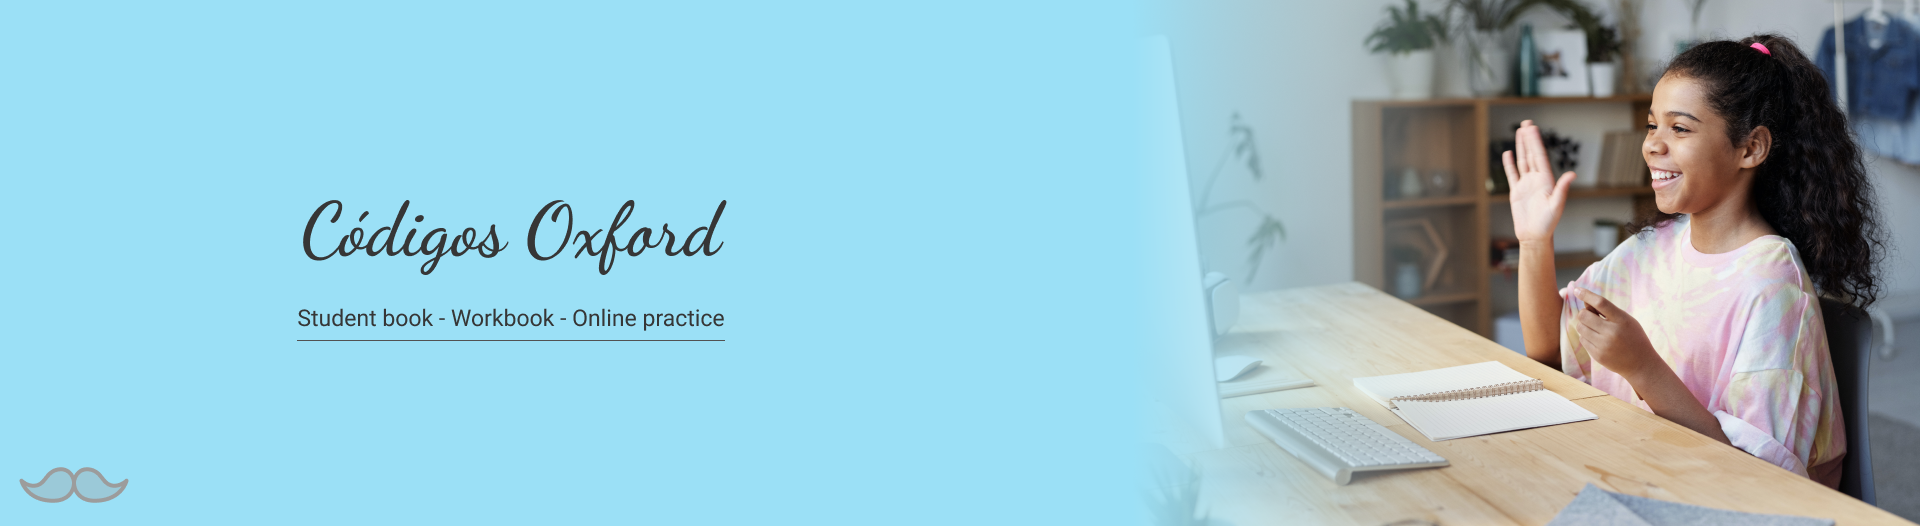
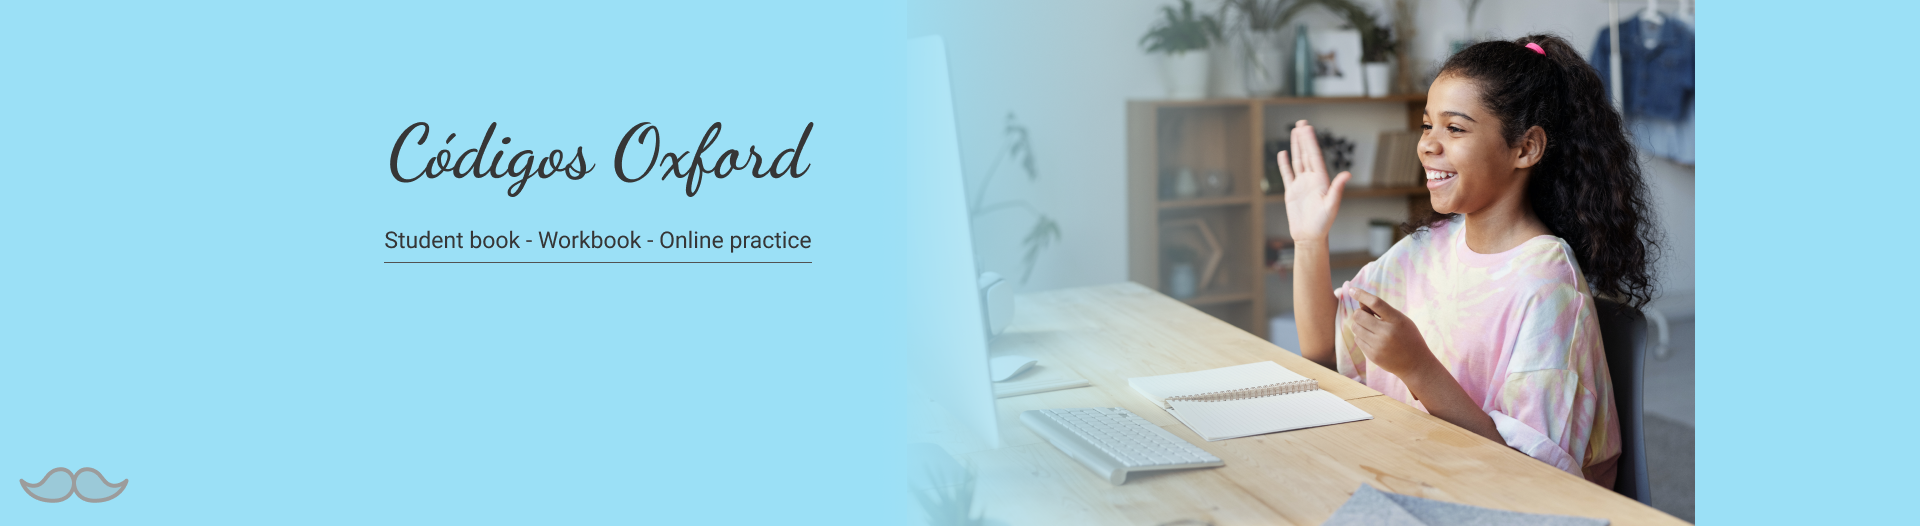
issues fixed

diff --git a/resources/views/home.blade.php b/resources/views/home.blade.php
@@ -8,7 +8,14 @@
     <link rel="stylesheet" href="https://cdn.jsdelivr.net/npm/@splidejs/splide@4.1.4/dist/css/splide.min.css">
     <style>
         .splide__pagination {
+            visibility: hidden !important;
             bottom: -20px !important;
+        }
+
+        @media (min-width: 640px) {
+            .splide__pagination {
+                visibility: visible !important;
+            }
         }
 
         .splide__pagination__page {
@@ -37,7 +44,7 @@
 @section('content')
     <!-- Carousel imagenes -->
 
-    <div id="carouselExampleCaptions" class="relative md:h-80 h-72" data-te-carousel-init data-te-carousel-slide>
+    <div id="carouselExampleCaptions" class="relative md:h-80 sm:h-72 h-44" data-te-carousel-init data-te-carousel-slide>
         <!--Carousel indicators-->
         <div class="absolute bottom-0 left-0 right-0 z-[2] mx-[15%] mb-4 flex list-none justify-center p-0"
             data-te-carousel-indicators>
@@ -60,8 +67,10 @@
                 <img src="{{ asset('images/carousel_images/image1.jpg') }}" class="w-full h-full object-cover"
                     alt="..." />
                 <div class="absolute inset-x-[15%] bottom-10 py-5 text-center text-white block">
-                    <h1 class="text-2xl font-bold drop-shadow-[0_1.2px_1.2px_rgba(0,0,0,0.8)]">Códigos Oxford</h1>
-                    <p class="drop-shadow-[0_1.2px_1.2px_rgba(0,0,0,0.8)]">
+                    <h1 class="sm:text-2xl text-base sm:block hidden font-bold drop-shadow-[0_1.2px_1.2px_rgba(0,0,0,0.8)]">
+                        Códigos Oxford
+                    </h1>
+                    <p class="sm:text-base text-sm drop-shadow-[0_1.2px_1.2px_rgba(0,0,0,0.8)]">
                         Adquiere tus códigos y licencias digitales de Oxford University Press (OUP).
                     </p>
                 </div>
@@ -73,8 +82,9 @@
                 <img src="{{ asset('images/carousel_images/image2.jpg') }}" class="w-full h-full object-cover"
                     alt="..." />
                 <div class="absolute inset-x-[15%] bottom-10 py-5 text-center text-white block">
-                    <h2 class="text-2xl font-bold drop-shadow-[0_1.2px_1.2px_rgba(0,0,0,0.8)]">Online Practice</h2>
-                    <p class="drop-shadow-[0_1.2px_1.2px_rgba(0,0,0,0.8)]">
+                    <h2 class="sm:text-2xl text-base font-bold drop-shadow-[0_1.2px_1.2px_rgba(0,0,0,0.8)]">Online Practice
+                    </h2>
+                    <p class="sm:text-base text-sm drop-shadow-[0_1.2px_1.2px_rgba(0,0,0,0.8)]">
                         Adquiere códigos y licencias digitales para el Online Practice.
                     </p>
                 </div>
@@ -86,9 +96,10 @@
                 <img src="{{ asset('images/carousel_images/image3.jpg') }}" class="w-full h-full object-cover"
                     alt="..." />
                 <div class="absolute inset-x-[15%] bottom-10 py-5 text-center text-white block">
-                    <h2 class="text-2xl font-bold drop-shadow-[0_1.2px_1.2px_rgba(0,0,0,0.8)]">Oxford Learner’s Bookshelf
+                    <h2 class="sm:text-2xl text-base font-bold drop-shadow-[0_1.2px_1.2px_rgba(0,0,0,0.8)]">Oxford Learner’s
+                        Bookshelf
                     </h2>
-                    <p class="drop-shadow-[0_1.2px_1.2px_rgba(0,0,0,0.8)]">
+                    <p class="sm:text-base text-sm drop-shadow-[0_1.2px_1.2px_rgba(0,0,0,0.8)]">
                         Adquiere códigos y licencias digitales para el Student Book y el Workbook en formato e-book
                     </p>
                 </div>
@@ -117,11 +128,11 @@
                         src="https://logos-world.net/wp-content/uploads/2020/11/American-Express-Logo.png" alt="">
                 </li>
                 <!--<li><img class="md:h-10 h-8 rounded"
-                                src="https://d2a95c7k4laywg.cloudfront.net/wp-content/uploads/2021/03/bcp-logo-300x117.png"
-                                alt=""></li>
-                        <li><img class="md:h-10 h-8 rounded"
-                                    src="https://yt3.googleusercontent.com/l048nvZUXxmhjaDjxdJntZWSj03oOAK0ETKCQZup-Ea-aM_h8M94Jz87cw8JiwCHSEbv8llH=s176-c-k-c0x00ffffff-no-rj"
-                                    alt=""></li>-->
+                                                                                                                src="https://d2a95c7k4laywg.cloudfront.net/wp-content/uploads/2021/03/bcp-logo-300x117.png"
+                                                                                                                alt=""></li>
+                                                                                                        <li><img class="md:h-10 h-8 rounded"
+                                                                                                                    src="https://yt3.googleusercontent.com/l048nvZUXxmhjaDjxdJntZWSj03oOAK0ETKCQZup-Ea-aM_h8M94Jz87cw8JiwCHSEbv8llH=s176-c-k-c0x00ffffff-no-rj"
+                                                                                                                    alt=""></li>-->
             </ul>
         </div>
 

diff --git a/resources/views/layouts/app.blade.php b/resources/views/layouts/app.blade.php
@@ -12,7 +12,7 @@
 
     <link href="https://fonts.googleapis.com/css?family=Roboto:300,400,500,700,900&display=swap" rel="stylesheet" />
 
-    <link rel="stylesheet" href="https://cdn.jsdelivr.net/npm/tw-elements@1.0.0-beta1/dist/css/index.min.css" />
+    <!--<link rel="stylesheet" href="https://cdn.jsdelivr.net/npm/tw-elements@1.0.0-beta1/dist/css/index.min.css" /> -->
 
     <script src="https://cdn.tailwindcss.com/3.2.4"></script>
     <script>
@@ -33,7 +33,7 @@
 
     @stack('css-scripts')
 
-    @vite(['resources/css/app.css', 'resources/js/app.js'])
+    @vite(['resources/css/app.css', 'resources/js/app.js', 'resources/css/tw-elements.min.css', 'resources/js/tw-elements.umd.min.js'])
 </head>
 
 <body class="">
@@ -60,8 +60,7 @@
         <form action="{{ route('search.index') }}" method="get"
             class="search-container md:w-5/12 w-full sm:min-w-[400px] md:my-0 mt-3 flex items-center justify-center">
 
-            <div
-                class="md:w-full w-full rounded flex items-center border-y border-s overflow-hidden border-cyan-700  shadow-[0_4px_9px_-4px_#fbfbfb] ">
+            <div class="md:w-full w-full rounded flex items-center border-y border-s overflow-hidden ">
                 <input type="text" name="keyword" placeholder="Buscar por titulo, ISBN, etc."
                     class="w-11/12 p-2 outline-none" autofocus required>
 
@@ -173,7 +172,7 @@
     </footer>
 
 
-    <script src="https://cdn.jsdelivr.net/npm/tw-elements@1.0.0-beta1/dist/js/index.min.js"></script>
+    <!--<script src="https://cdn.jsdelivr.net/npm/tw-elements@1.0.0-beta1/dist/js/index.min.js"></script>-->
 
     @stack('js-scripts')
 </body>

diff --git a/resources/views/product.blade.php b/resources/views/product.blade.php
@@ -1,14 +1,21 @@
 @extends('layouts.app')
 
 @section('title')
-    Item
+    Producto
 @endsection
 
 @push('css-scripts')
     <link rel="stylesheet" href="https://cdn.jsdelivr.net/npm/@splidejs/splide@4.1.4/dist/css/splide.min.css">
     <style>
         .splide__pagination {
+            visibility: hidden !important;
             bottom: -20px !important;
+        }
+
+        @media (min-width: 640px) {
+            .splide__pagination {
+                visibility: visible !important;
+            }
         }
 
         .splide__pagination__page {

diff --git a/resources/views/series.blade.php b/resources/views/series.blade.php
@@ -1,7 +1,7 @@
 @extends('layouts.app')
 
 @section('title')
-    Instituciones
+    Series
 @endsection
 
 
